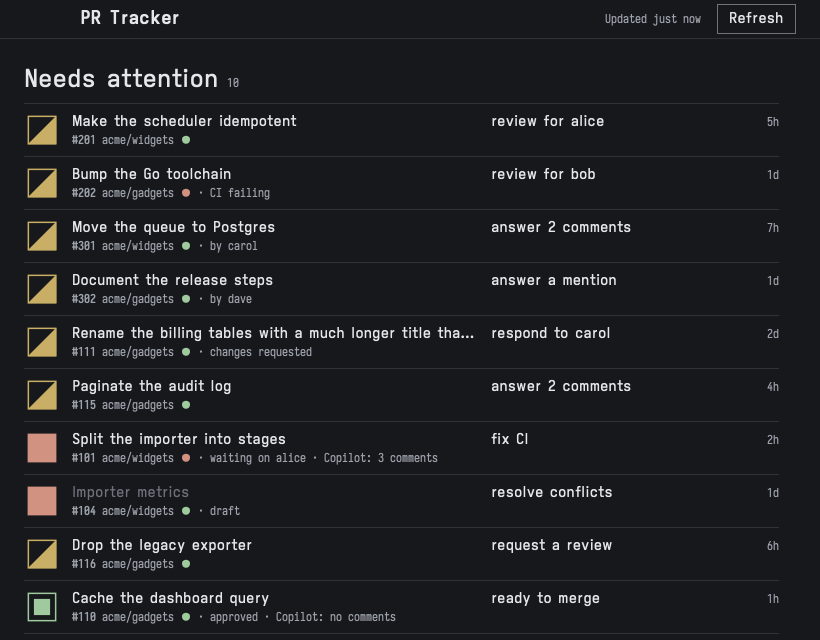
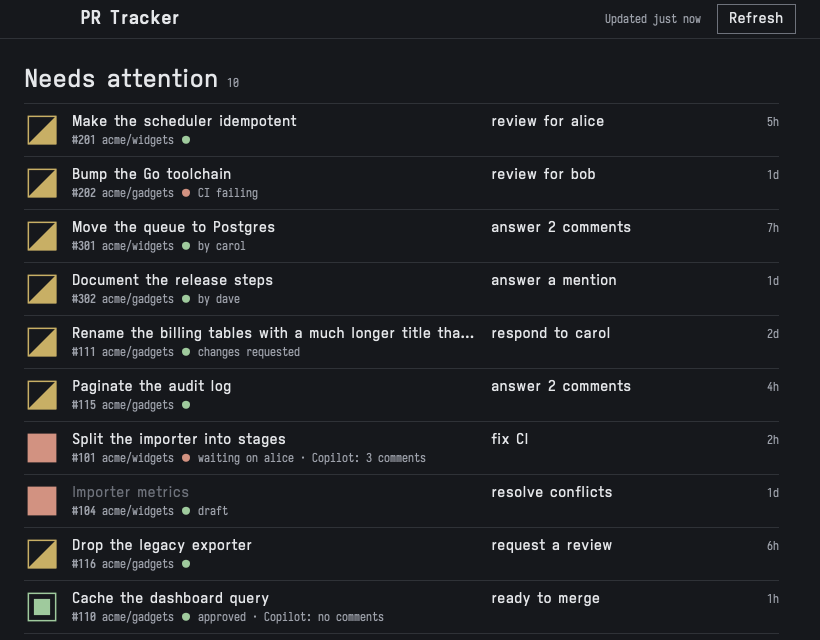
Let the CI dot stand in for the separator after it
A coloured dot followed by a grey one read as two marks.

diff --git a/Sources/TrackerApp/Views/PullRequestRow.swift b/Sources/TrackerApp/Views/PullRequestRow.swift
@@ -48,14 +48,14 @@ struct PullRequestRow: View {
         .overlay(alignment: .leading) { stackGuides }
     }
 
-    /// The number, the repository, a dot in the colour of its CI, then the other facts.
+    /// The number, the repository, then the other facts. The dot between them takes the colour of its CI, and is a plain separator when it has none.
     private var facts: Text {
-        var line = Text("\(Text(verbatim: "#\(pullRequest.number)").font(TextStyle.labelStrong.font)) \(pullRequest.repository)")
-        if let color = pullRequest.checks.color {
-            line = Text("\(line) \(Text(verbatim: "●").foregroundStyle(isParked ? Palette.lineStrong : color))")
+        let line = Text("\(Text(verbatim: "#\(pullRequest.number)").font(TextStyle.labelStrong.font)) \(pullRequest.repository)")
+        let rest = snapshot.facts(about: pullRequest).joined(separator: " · ")
+        guard let color = pullRequest.checks.color else {
+            return rest.isEmpty ? line : Text("\(line) · \(rest)")
         }
-        let rest = snapshot.facts(about: pullRequest)
-        return rest.isEmpty ? line : Text("\(line) · \(rest.joined(separator: " · "))")
+        return Text("\(line) \(Text(verbatim: "●").foregroundStyle(isParked ? Palette.lineStrong : color)) \(rest)")
     }
 
     /// A draft with nothing for me to do. The whole row drops to the disabled grey.
